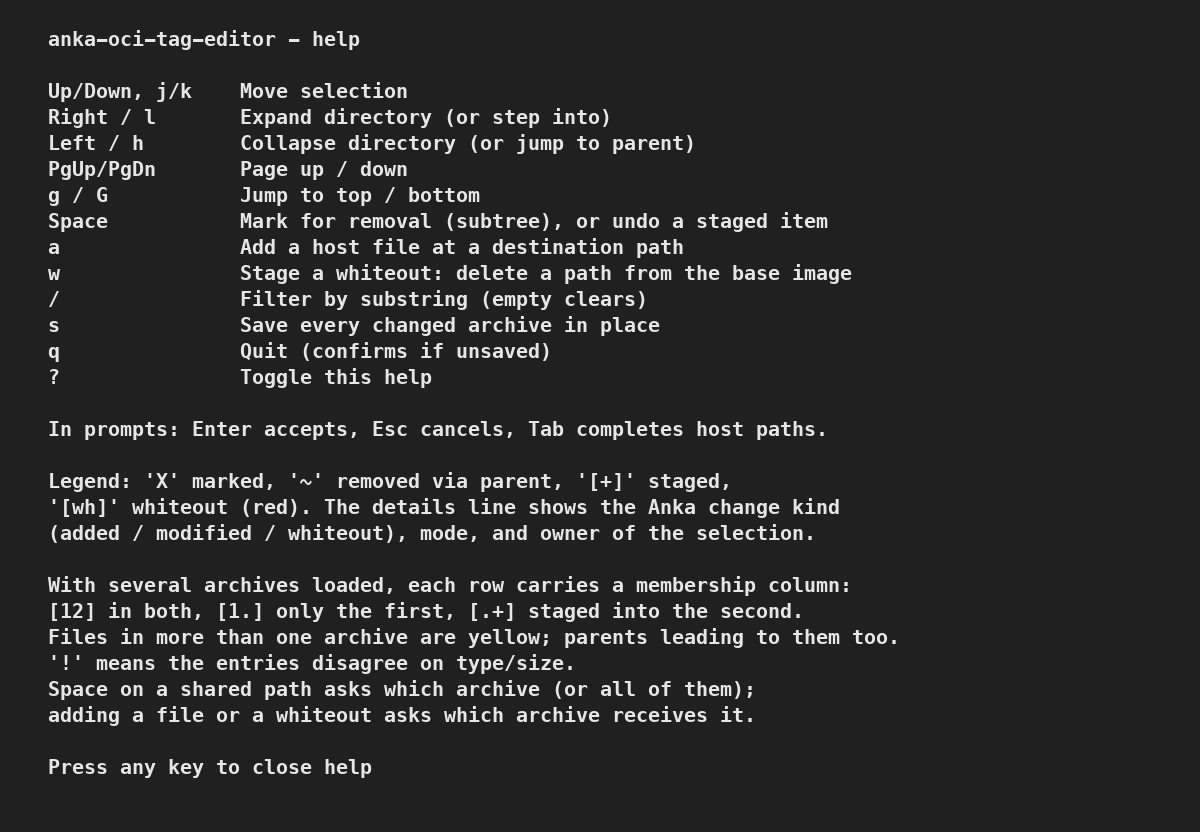
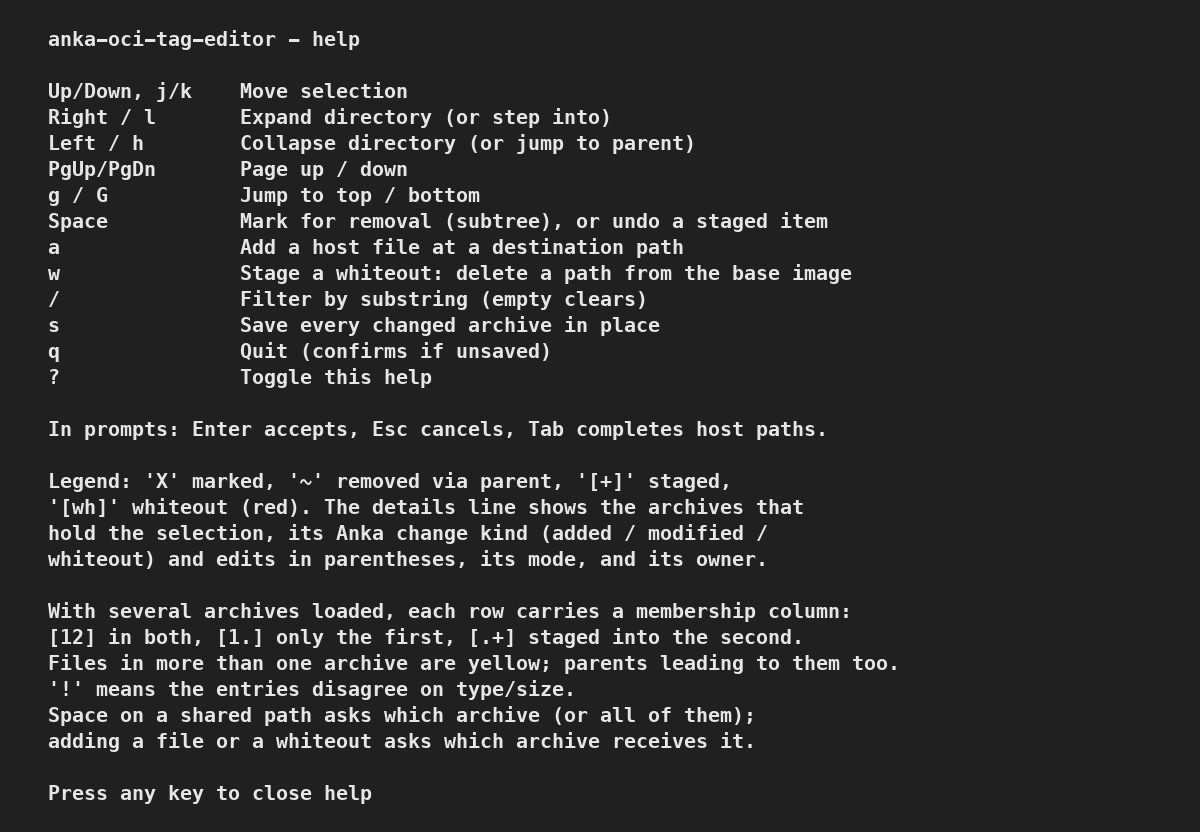
Refine details line and harden dev reload.
Show archive names with change state in parentheses, keep stdin for the editor in dev.sh, and add a tmux reload test.

Changed region(s): [[0.0308, 0.5938, 0.74, 0.9688]]

diff --git a/src/tui.c b/src/tui.c
@@ -473,19 +473,20 @@ static void draw_row(tui_state *st, int screen_y, size_t idx) {
         attroff(attr);
 }
 
-/* What one archive holds and plans for the node, e.g. "added, marked". */
-static int append_arch_state(char *buf, size_t cap, int off, const le_node *n,
+/* What one archive holds and plans for the node, e.g. "added, marked".
+ * Empty when the archive only holds the path, with no change kind and no
+ * edit. */
+static int format_arch_state(char *buf, size_t cap, const le_node *n,
                              int arch_idx) {
     const le_arch_state *a = &n->arch[arch_idx];
-    int wrote_any = 0;
+    int off = 0, wrote_any = 0;
+    buf[0] = '\0';
 #define STATE_PART(text) \
     do { off = str_append(buf, cap, off, "%s%s", wrote_any ? ", " : "", text); \
          wrote_any = 1; } while (0)
     const char *kind = a->present ? change_kind_label(a->change_kind) : NULL;
     if (kind)
         STATE_PART(kind);
-    else if (a->present)
-        STATE_PART("member");
     if (a->staged)
         STATE_PART(a->staged->source == LE_STAGED_WHITEOUT ? "staged whiteout"
                                                            : "staged");
@@ -497,7 +498,8 @@ static int append_arch_state(char *buf, size_t cap, int off, const le_node *n,
     return off;
 }
 
-/* Details for the selected row: full path, per-archive state, mode, owner. */
+/* Details for the selected row: full path, the archives that hold it with
+ * their state, mode, and owner. One archive: only the state, no name. */
 static void format_details(const tui_state *st, char *buf, size_t cap) {
     buf[0] = '\0';
     if (st->nrows == 0)
@@ -507,22 +509,25 @@ static void format_details(const tui_state *st, char *buf, size_t cap) {
     node_path(n, path, sizeof(path));
     int off = str_append(buf, cap, 0, " ");
     off = str_append_safe(buf, cap, off, path);
-    off = str_append(buf, cap, off, " |");
 
     int slots[LE_MAX_ARCHIVES];
     int nslots = node_archives(n, st->m->narchives, slots);
-    for (int i = 0; i < nslots; i++) {
-        off = str_append(buf, cap, off, " ");
-        if (multi(st))
-            off = str_append(buf, cap, off, "%d: ", slots[i] + 1);
-        off = append_arch_state(buf, cap, off, n, slots[i]);
-        if (i + 1 < nslots)
-            off = str_append(buf, cap, off, " ");
+    char state[256];
+    if (multi(st)) {
+        for (int i = 0; i < nslots; i++) {
+            off = str_append(buf, cap, off, "%s", i == 0 ? "   in " : ", ");
+            off = str_append_safe(buf, cap, off,
+                                  session_label(st->sess, slots[i]));
+            if (format_arch_state(state, sizeof(state), n, slots[i]))
+                off = str_append(buf, cap, off, " (%s)", state);
+        }
+    } else if (nslots == 1 && format_arch_state(state, sizeof(state), n, slots[0])) {
+        off = str_append(buf, cap, off, "   %s", state);
     }
 
     const le_meta *meta = node_display_meta(n, st->m->narchives);
     if (n->meta_set || meta != &n->meta)
-        str_append(buf, cap, off, " | mode %04o owner %u:%u",
+        str_append(buf, cap, off, "   mode %04o   owner %u:%u",
                    (unsigned)(meta->mode & 07777), (unsigned)meta->uid,
                    (unsigned)meta->gid);
 }
@@ -547,8 +552,9 @@ static void draw_help(const tui_state *st) {
         "  In prompts: Enter accepts, Esc cancels, Tab completes host paths.",
         "",
         "  Legend: 'X' marked, '~' removed via parent, '[+]' staged,",
-        "  '[wh]' whiteout (red). The details line shows the Anka change kind",
-        "  (added / modified / whiteout), mode, and owner of the selection.",
+        "  '[wh]' whiteout (red). The details line shows the archives that",
+        "  hold the selection, its Anka change kind (added / modified /",
+        "  whiteout) and edits in parentheses, its mode, and its owner.",
         NULL,
     };
     const char *multi_lines[] = {

diff --git a/README.md b/README.md
@@ -81,7 +81,7 @@ sudo make install            # installs to /usr/local/bin
 make install PREFIX=~/.local
 ```
 
-`make dev` builds the editor, opens the two sample layers, and restarts it when you change a file under `src/`. Quit with `q` or Ctrl-C. Pass other arguments with `make dev DEV_ARGS='layer.tar.gz'`.
+`make dev` builds the editor, opens the two sample layers, and restarts it when you change a file under `src/`. Quit with `q` or Ctrl-C. Pass other arguments with `make dev DEV_ARGS='layer.tar.gz'`. `make test-dev` checks in tmux that the keys work before and after a restart.
 
 ## CI
 
@@ -133,9 +133,16 @@ Row markers:
 - `[wh]` (red) is a whiteout, with the name it deletes.
 - `a -> b` is a symlink, `a => b` is a hard link.
 
-The line above the status bar shows the selected path in full, its state in each
-archive (member, staged, marked, and the Anka change kind: added, modified, or
-whiteout), its mode, and its owner.
+The line above the status bar shows the selected path in full, the archives that
+hold it, its mode, and its owner. After each archive name, the parentheses show
+the Anka change kind (added, modified, or whiteout) and your edits (staged,
+marked, or removed via parent). An archive with no change kind and no edit shows
+only its name. With one archive open, the line shows only the state:
+
+```text
+ usr/local   in pkg-cmake.tar.gz, pkg-jq.tar.gz   mode 0755   owner 501:20
+ usr/local/README.md   in pkg-cmake.tar.gz (marked), pkg-jq.tar.gz   mode 0644   owner 501:20
+```
 
 ## Whiteouts
 
